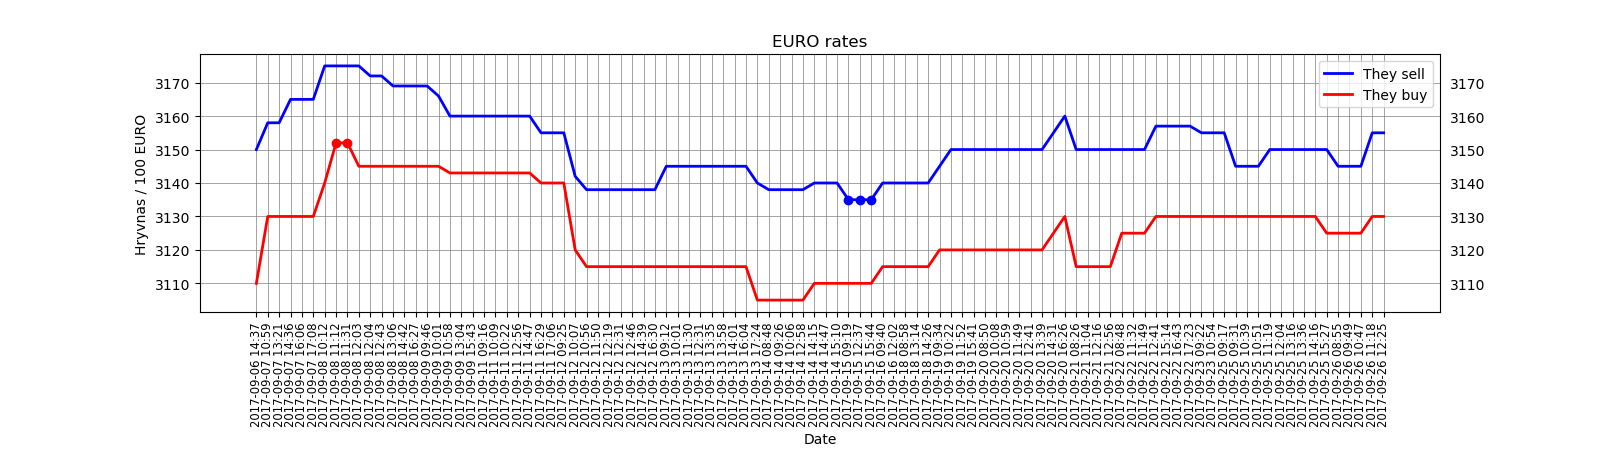
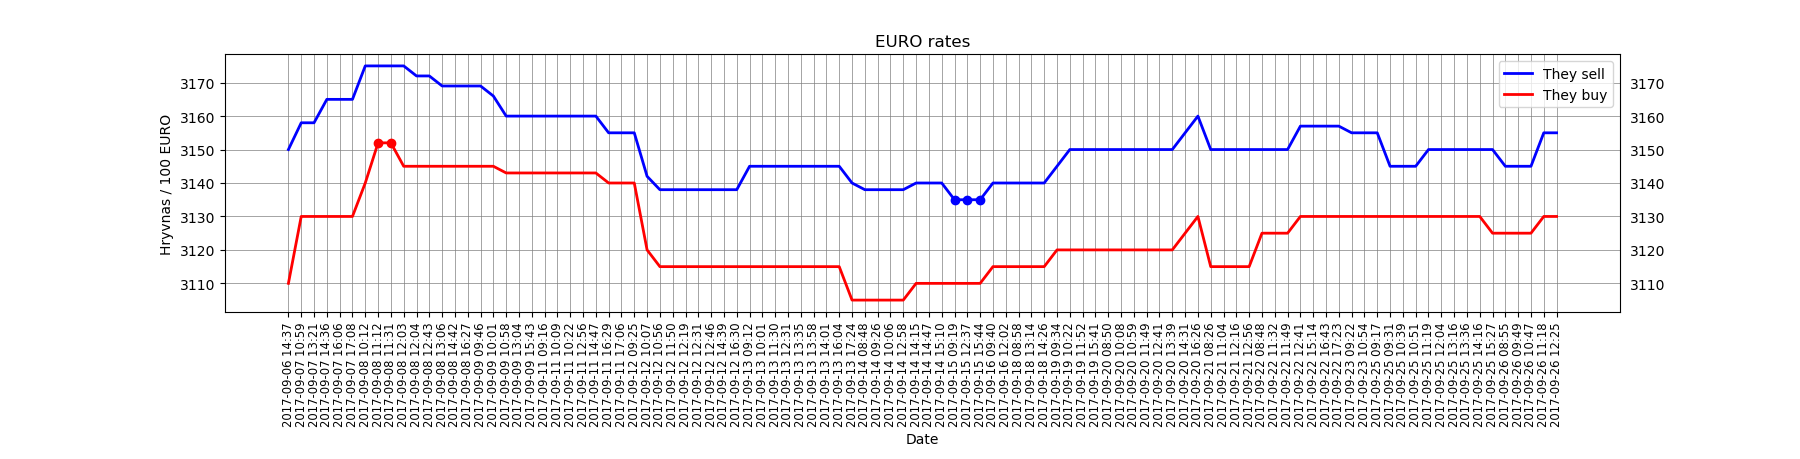
[img_builder] Increase width of built pics
For 2 reasons:
- use width of standard monitor more efficiently;
- we have too many records on X axes per month, so, we increase readability.

diff --git a/crspy/img_builder.py b/crspy/img_builder.py
@@ -81,7 +81,7 @@ def generate_images(path_to_month_dir):
 
     for currency in ('usd', 'euro'):
         CURRENCY = currency.upper()
-        plt.figure(figsize=(16, 4.6))
+        plt.figure(figsize=(18, 4.6))
         plt.title('%s rates' % CURRENCY)
 
         x = data['x_indexes']
